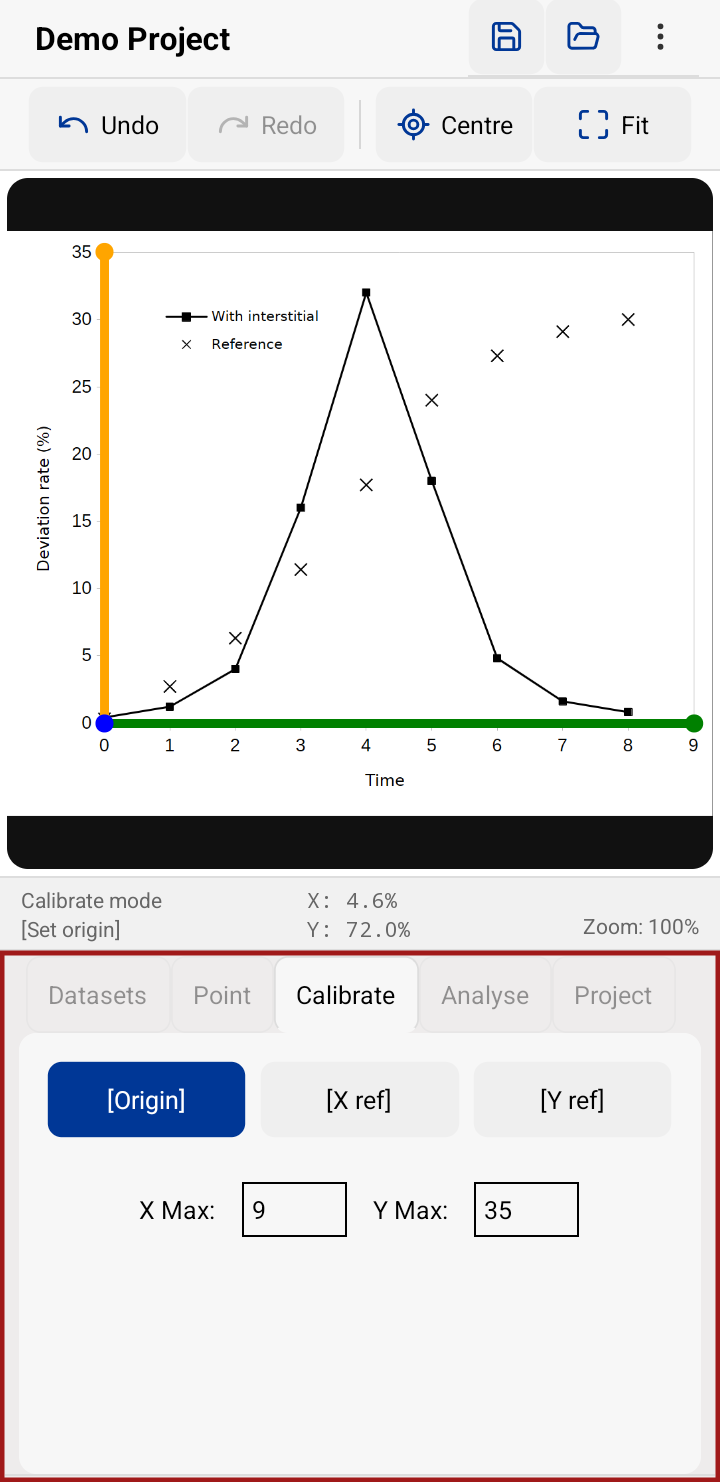
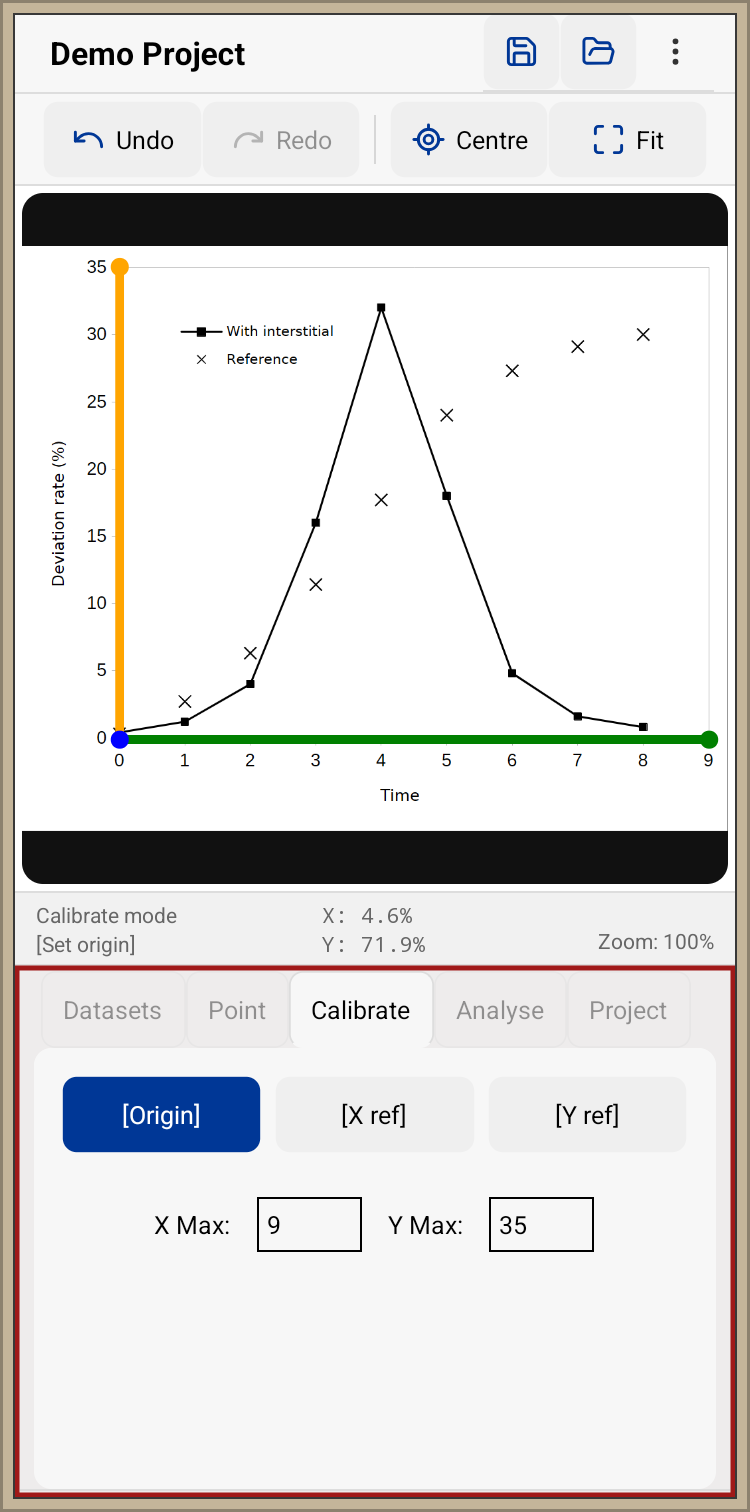
Scale point nudging with zoom level

diff --git a/app/screens/MainScreen.js b/app/screens/MainScreen.js
@@ -1732,8 +1732,6 @@ export default function MainScreen({ onOpenList, loadedProject, setLoadedProject
                         />
                       </View>
                     </View>
-
-
                   </View>
 
                 )}
@@ -1997,19 +1995,19 @@ export default function MainScreen({ onOpenList, loadedProject, setLoadedProject
                     <View style={styles.pointControls}>
                       <IconButton
                         icon="nudgeLeft"
-                        onPress={() => nudgePoint(-1, 0)}
+                        onPress={() => nudgePoint(-1 / zoomDisplay, 0)}
                       />
                       <IconButton
                         icon="nudgeRight"
-                        onPress={() => nudgePoint(1, 0)}
+                        onPress={() => nudgePoint(1 / zoomDisplay, 0)}
                       />
                       <IconButton
                         icon="nudgeUp"
-                        onPress={() => nudgePoint(0, -1)}
+                        onPress={() => nudgePoint(0, -1 / zoomDisplay)}
                       />
                       <IconButton
                         icon="nudgeDown"
-                        onPress={() => nudgePoint(0, 1)}
+                        onPress={() => nudgePoint(0, 1 / zoomDisplay)}
                       />
                     </View>
 
@@ -2253,22 +2251,22 @@ export default function MainScreen({ onOpenList, loadedProject, setLoadedProject
                       <View style={styles.pointControls}>
                         <IconButton
                           icon="nudgeLeft"
-                          onPress={() => nudgeCalibrationPoint(-1, 0)}
+                          onPress={() => nudgeCalibrationPoint(-1 / zoomDisplay, 0)}
                           disabled={mode === 'yRef'}
                         />
                         <IconButton
                           icon="nudgeRight"
-                          onPress={() => nudgeCalibrationPoint(1, 0)}
+                          onPress={() => nudgeCalibrationPoint(1 / zoomDisplay, 0)}
                           disabled={mode === 'yRef'}
                         />
                         <IconButton
                           icon="nudgeUp"
-                          onPress={() => nudgeCalibrationPoint(0, -1)}
+                          onPress={() => nudgeCalibrationPoint(0, -1 / zoomDisplay)}
                           disabled={mode === 'xRef'}
                         />
                         <IconButton
                           icon="nudgeDown"
-                          onPress={() => nudgeCalibrationPoint(0, 1)}
+                          onPress={() => nudgeCalibrationPoint(0, 1 / zoomDisplay)}
                           disabled={mode === 'xRef'}
                         />
                       </View>

diff --git a/app/components/GraphCanvas.js b/app/components/GraphCanvas.js
@@ -577,7 +577,7 @@ export default function GraphCanvas(props) {
         displaySize.height / imageHeight
     );
 
-    const maxScale = fitScale * 4;
+    const maxScale = fitScale * 10;
     const minScale = fitScale * 0.5;
 
 

diff --git a/README.md b/README.md
@@ -31,6 +31,14 @@ The application is designed for extracting numerical data from graphs when the o
 
 ## Screenshots
 
+### Spline Interpolation
+
+Visualize interpolated curves and manage multiple datasets.
+
+<p align="center">
+  <img src="screenshots/interpolation.png" width="350">
+</p>
+
 ### Calibration
 
 Define graph axes and reference points for coordinate conversion.
@@ -47,18 +55,9 @@ Digitize points and perform curve fitting.
   <img src="screenshots/data-fit.png" width="350">
 </p>
 
-### Spline Interpolation
-
-Visualize interpolated curves and manage multiple datasets.
-
-<p align="center">
-  <img src="screenshots/interpolation.png" width="350">
-</p>
-
-
 ## Status
 
-Version 0.1.0
+Version 0.1.2
 
 ## License
 
